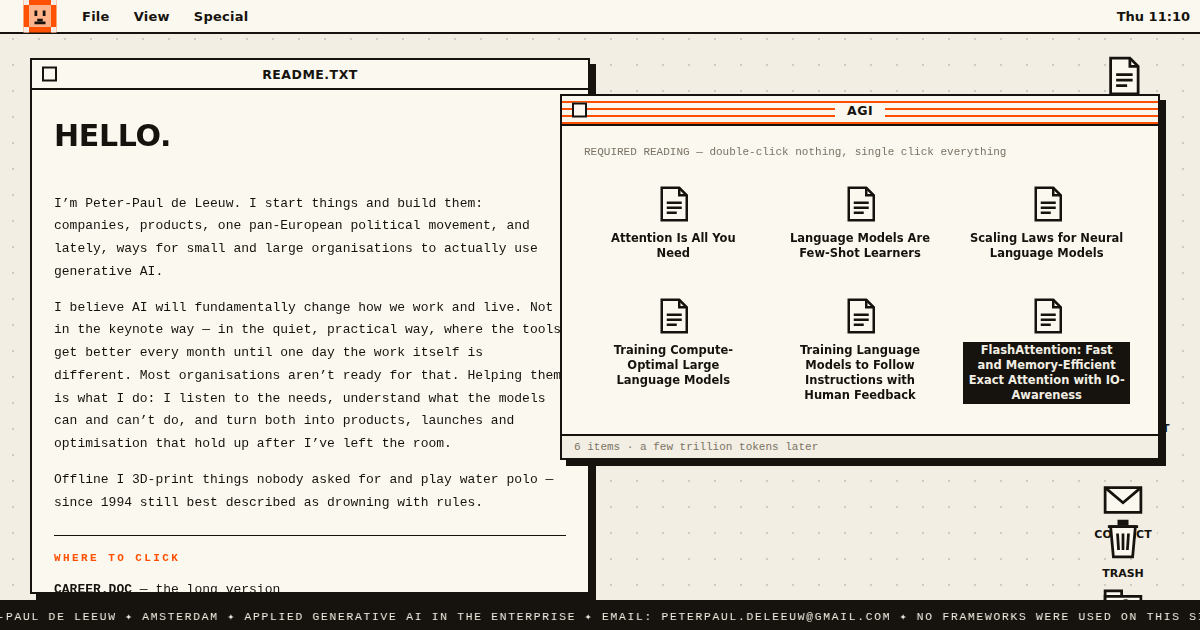
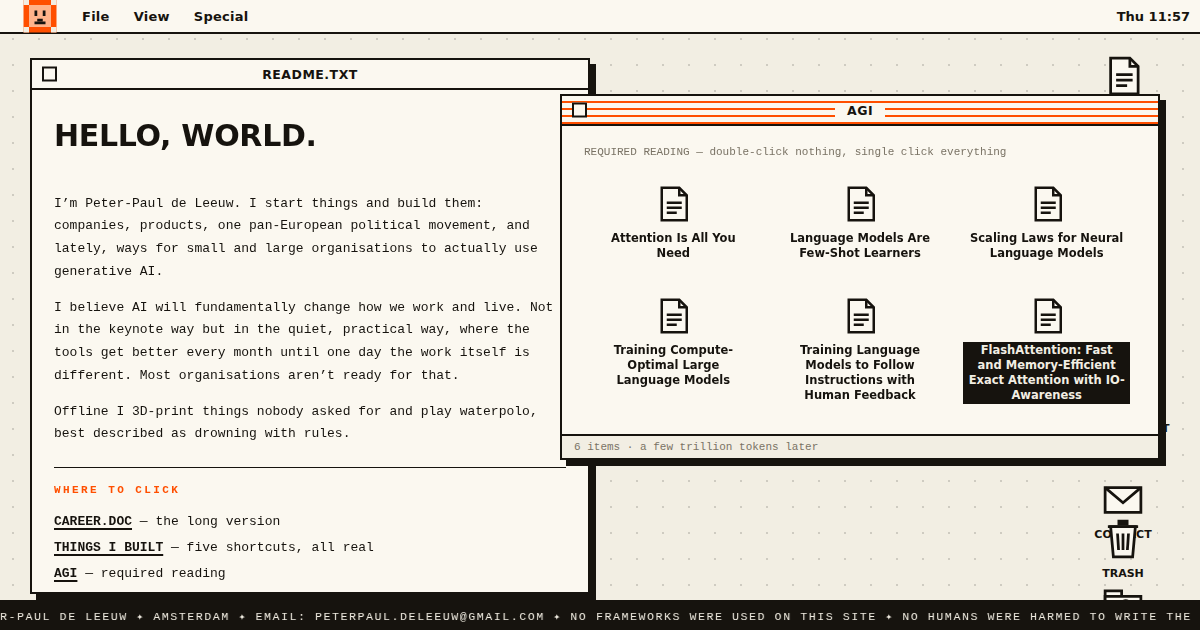
Copy refinements round two (#4)
Lion menu reduced to Restart only, intro tightened (but-clause,
Helping-them sentence removed, HELLO, WORLD.), Blue Health and
Amberscript wording tuned, waterpolo spelling throughout, and
ticker trimmed.

Claude-Session: https://claude.ai/code/session_01KgZQH4S6WCzJTUYKRHPtdJ

diff --git a/index.html b/index.html
@@ -90,9 +90,6 @@
           <span class="sr-only">LeeuwOS menu</span>
         </button>
         <ul class="menu__list" role="menu">
-          <li><button role="menuitem" data-open="win-about">About LeeuwOS&hellip;</button></li>
-          <li><a role="menuitem" href="https://github.com/ppleeuw/ppdeleeuw" target="_blank" rel="noopener">View Source (GitHub)</a></li>
-          <li class="menu__rule" role="separator"></li>
           <li><button role="menuitem" data-action="restart">Restart</button></li>
         </ul>
       </div>
@@ -168,10 +165,10 @@
         <h2 class="window__title" id="t-readme">README.TXT</h2>
       </header>
       <div class="window__body doc">
-        <p class="doc__hello">HELLO.</p>
+        <p class="doc__hello">HELLO, WORLD.</p>
         <p>I&rsquo;m Peter-Paul de Leeuw. I start things and build them: companies, products, one pan-European political movement, and lately, ways for small and large organisations to actually use generative&nbsp;AI.</p>
-        <p>I believe AI will fundamentally change how we work and live. Not in the keynote way &mdash; in the quiet, practical way, where the tools get better every month until one day the work itself is different. Most organisations aren&rsquo;t ready for that. Helping them is what I do: I listen to the needs, understand what the models can and can&rsquo;t do, and turn both into products, launches and optimisation that hold up after I&rsquo;ve left the room.</p>
-        <p>Offline I 3D-print things nobody asked for and play water polo &mdash; since 1994 still best described as drowning with rules.</p>
+        <p>I believe AI will fundamentally change how we work and live. Not in the keynote way but in the quiet, practical way, where the tools get better every month until one day the work itself is different. Most organisations aren&rsquo;t ready for that.</p>
+        <p>Offline I 3D-print things nobody asked for and play waterpolo, best described as drowning with rules.</p>
         <div class="doc__nav">
           <p class="doc__navtitle">WHERE TO CLICK</p>
           <ul>
@@ -195,12 +192,12 @@
         <p class="doc__kicker">THE LONG VERSION</p>
 
         <h3 class="doc__h">2025&ndash;2026 &middot; BLUE HEALTH &mdash; CO-CEO</h3>
-        <p>After handing over Amberscript I co-founded Blue Health: preventive healthcare in Amsterdam &mdash; a 360&deg; health check in one hour, from ECG and ultrasound to bloodwork, with a doctor in the room. Huge efficiency and cost gains made possible with AI. I built the product with very happy customers, set up the tech team and made the company ready to scale.</p>
+        <p>After Amberscript I co-founded Blue Health: preventive healthcare in Amsterdam. A 360&deg; health check in one hour, from ECG and ultrasound to bloodwork, with a doctor in the room. Huge efficiency and cost gains made possible with AI. I built the product with very happy customers, set up the tech team and made the company ready to scale.</p>
         <p>The thread through everything I do is AI: getting it out of the demos and into daily work.</p>
 
         <h3 class="doc__h">2018&ndash;2024 &middot; AMBERSCRIPT &mdash; FOUNDER &amp; CEO</h3>
-        <p>During my MBA I fell for speech recognition: the models were getting good, and few people in Europe were turning them into products you could actually use. So we did. Amberscript turns audio and video into text and subtitles with proprietary foundation AI models built by our own team of 20 AI engineers and human editors where it matters.</p>
-        <p>From zero to &euro;10M+ revenue in five years, profitably. A team of 100+ across the Netherlands and Germany, &euro;15M raised from angels and VCs, two acquisitions, and a spot in the Deloitte top&nbsp;10 fastest-growing companies in the Netherlands. Seven years of hiring, shipping, pricing, breaking, fixing and scaling. I handed over the keys in November&nbsp;2024.</p>
+        <p>During my MBA I fell for speech recognition: the models were getting good, and few people in Europe were turning them into products you could actually use. So we did. Amberscript turns audio and video into text and subtitles with proprietary foundation AI models built by our own team of AI engineers and human editors where it matters.</p>
+        <p>From zero to &euro;10M+ revenue in five years, profitably. A team of 100+ across the Netherlands and Germany, &euro;15M raised from angels and VCs, two acquisitions, and a spot in the Deloitte top&nbsp;10 fastest-growing companies in the Netherlands. Eight years of hiring, shipping, pricing, breaking, fixing and scaling. I handed over the keys in November&nbsp;2024.</p>
 
         <h3 class="doc__h">2017&ndash;2022 &middot; VOLT NEDERLAND &mdash; CO-FOUNDER &amp; CO-PRESIDENT</h3>
         <p>Evenings and weekends: co-founded the Dutch chapter of the pan-European political movement. We started with three people and grew it to 10.000+ members. Structured the organisation, ran the election campaigns, built the candidate lists. It probably became the first political organisation with OKRs. Volt now holds seats in both the Dutch and the European parliament.</p>
@@ -219,7 +216,7 @@
         <h3 class="doc__h">SYSTEM SPECIFICATIONS</h3>
         <pre class="doc__spec">BUILT ........ 1986, NL (same era as the hardware above)
 LANGUAGES .... Dutch, English, French (basic), German (basic)
-ALSO RUNS .... water polo, 3D printers, DJ sets, PADI dives</pre>
+ALSO RUNS .... waterpolo, 3D printers, DJ sets, PADI dives</pre>
       </div>
     </section>
 
@@ -350,7 +347,7 @@ NEXT ..... generative AI in the enterprise</pre>
       </header>
       <div class="window__body doc doc--center">
         <svg class="pix pix--big" aria-hidden="true"><use href="#i-lion"/></svg>
-        <p><strong>LeeuwOS 1.0 &ldquo;Water Polo&rdquo;</strong><br>a small tribute to the machines of the 1980s</p>
+        <p><strong>LeeuwOS 1.0 &ldquo;Waterpolo&rdquo;</strong><br>a small tribute to the machines of the 1980s</p>
         <p>Handmade with HTML, CSS and vanilla JavaScript.<br>No frameworks. No build step. No trackers. No cookies.<br>Zero dependencies &mdash; view source, it&rsquo;s all there.</p>
         <pre class="doc__spec doc__spec--center">HARDWARE ... your browser
 MEMORY ..... 640K (ought to be enough)
@@ -364,8 +361,8 @@ HOSTING .... GitHub Pages</pre>
   <!-- Ticker -->
   <footer id="ticker" aria-hidden="true">
     <div class="ticker__inner">
-      <span class="ticker__chunk">PETER-PAUL DE LEEUW &#10022; AMSTERDAM &#10022; APPLIED GENERATIVE AI IN THE ENTERPRISE &#10022; EMAIL: PETERPAUL.DELEEUW&#64;GMAIL.COM &#10022; NO FRAMEWORKS WERE USED ON THIS SITE &#10022; WARNING: NO HUMANS WERE HARMED TO WRITE THE TEXT ON THIS SITE &#10022;&nbsp;</span>
-      <span class="ticker__chunk">PETER-PAUL DE LEEUW &#10022; AMSTERDAM &#10022; APPLIED GENERATIVE AI IN THE ENTERPRISE &#10022; EMAIL: PETERPAUL.DELEEUW&#64;GMAIL.COM &#10022; NO FRAMEWORKS WERE USED ON THIS SITE &#10022; WARNING: NO HUMANS WERE HARMED TO WRITE THE TEXT ON THIS SITE &#10022;&nbsp;</span>
+      <span class="ticker__chunk">PETER-PAUL DE LEEUW &#10022; AMSTERDAM &#10022; EMAIL: PETERPAUL.DELEEUW&#64;GMAIL.COM &#10022; NO FRAMEWORKS WERE USED ON THIS SITE &#10022; NO HUMANS WERE HARMED TO WRITE THE TEXT ON THIS SITE &#10022;&nbsp;</span>
+      <span class="ticker__chunk">PETER-PAUL DE LEEUW &#10022; AMSTERDAM &#10022; EMAIL: PETERPAUL.DELEEUW&#64;GMAIL.COM &#10022; NO FRAMEWORKS WERE USED ON THIS SITE &#10022; NO HUMANS WERE HARMED TO WRITE THE TEXT ON THIS SITE &#10022;&nbsp;</span>
     </div>
   </footer>
 

diff --git a/assets/app.js b/assets/app.js
@@ -347,7 +347,7 @@
   /* ---------- For the people who open the console ---------- */
 
   console.log([
-    '  /\\_/\\   LeeuwOS 1.0 "Water Polo"',
+    '  /\\_/\\   LeeuwOS 1.0 "Waterpolo"',
     ' ( o.o )  no frameworks, no trackers, no cookies.',
     '  > ^ <   reading source code counts as a site visit.',
     '',
